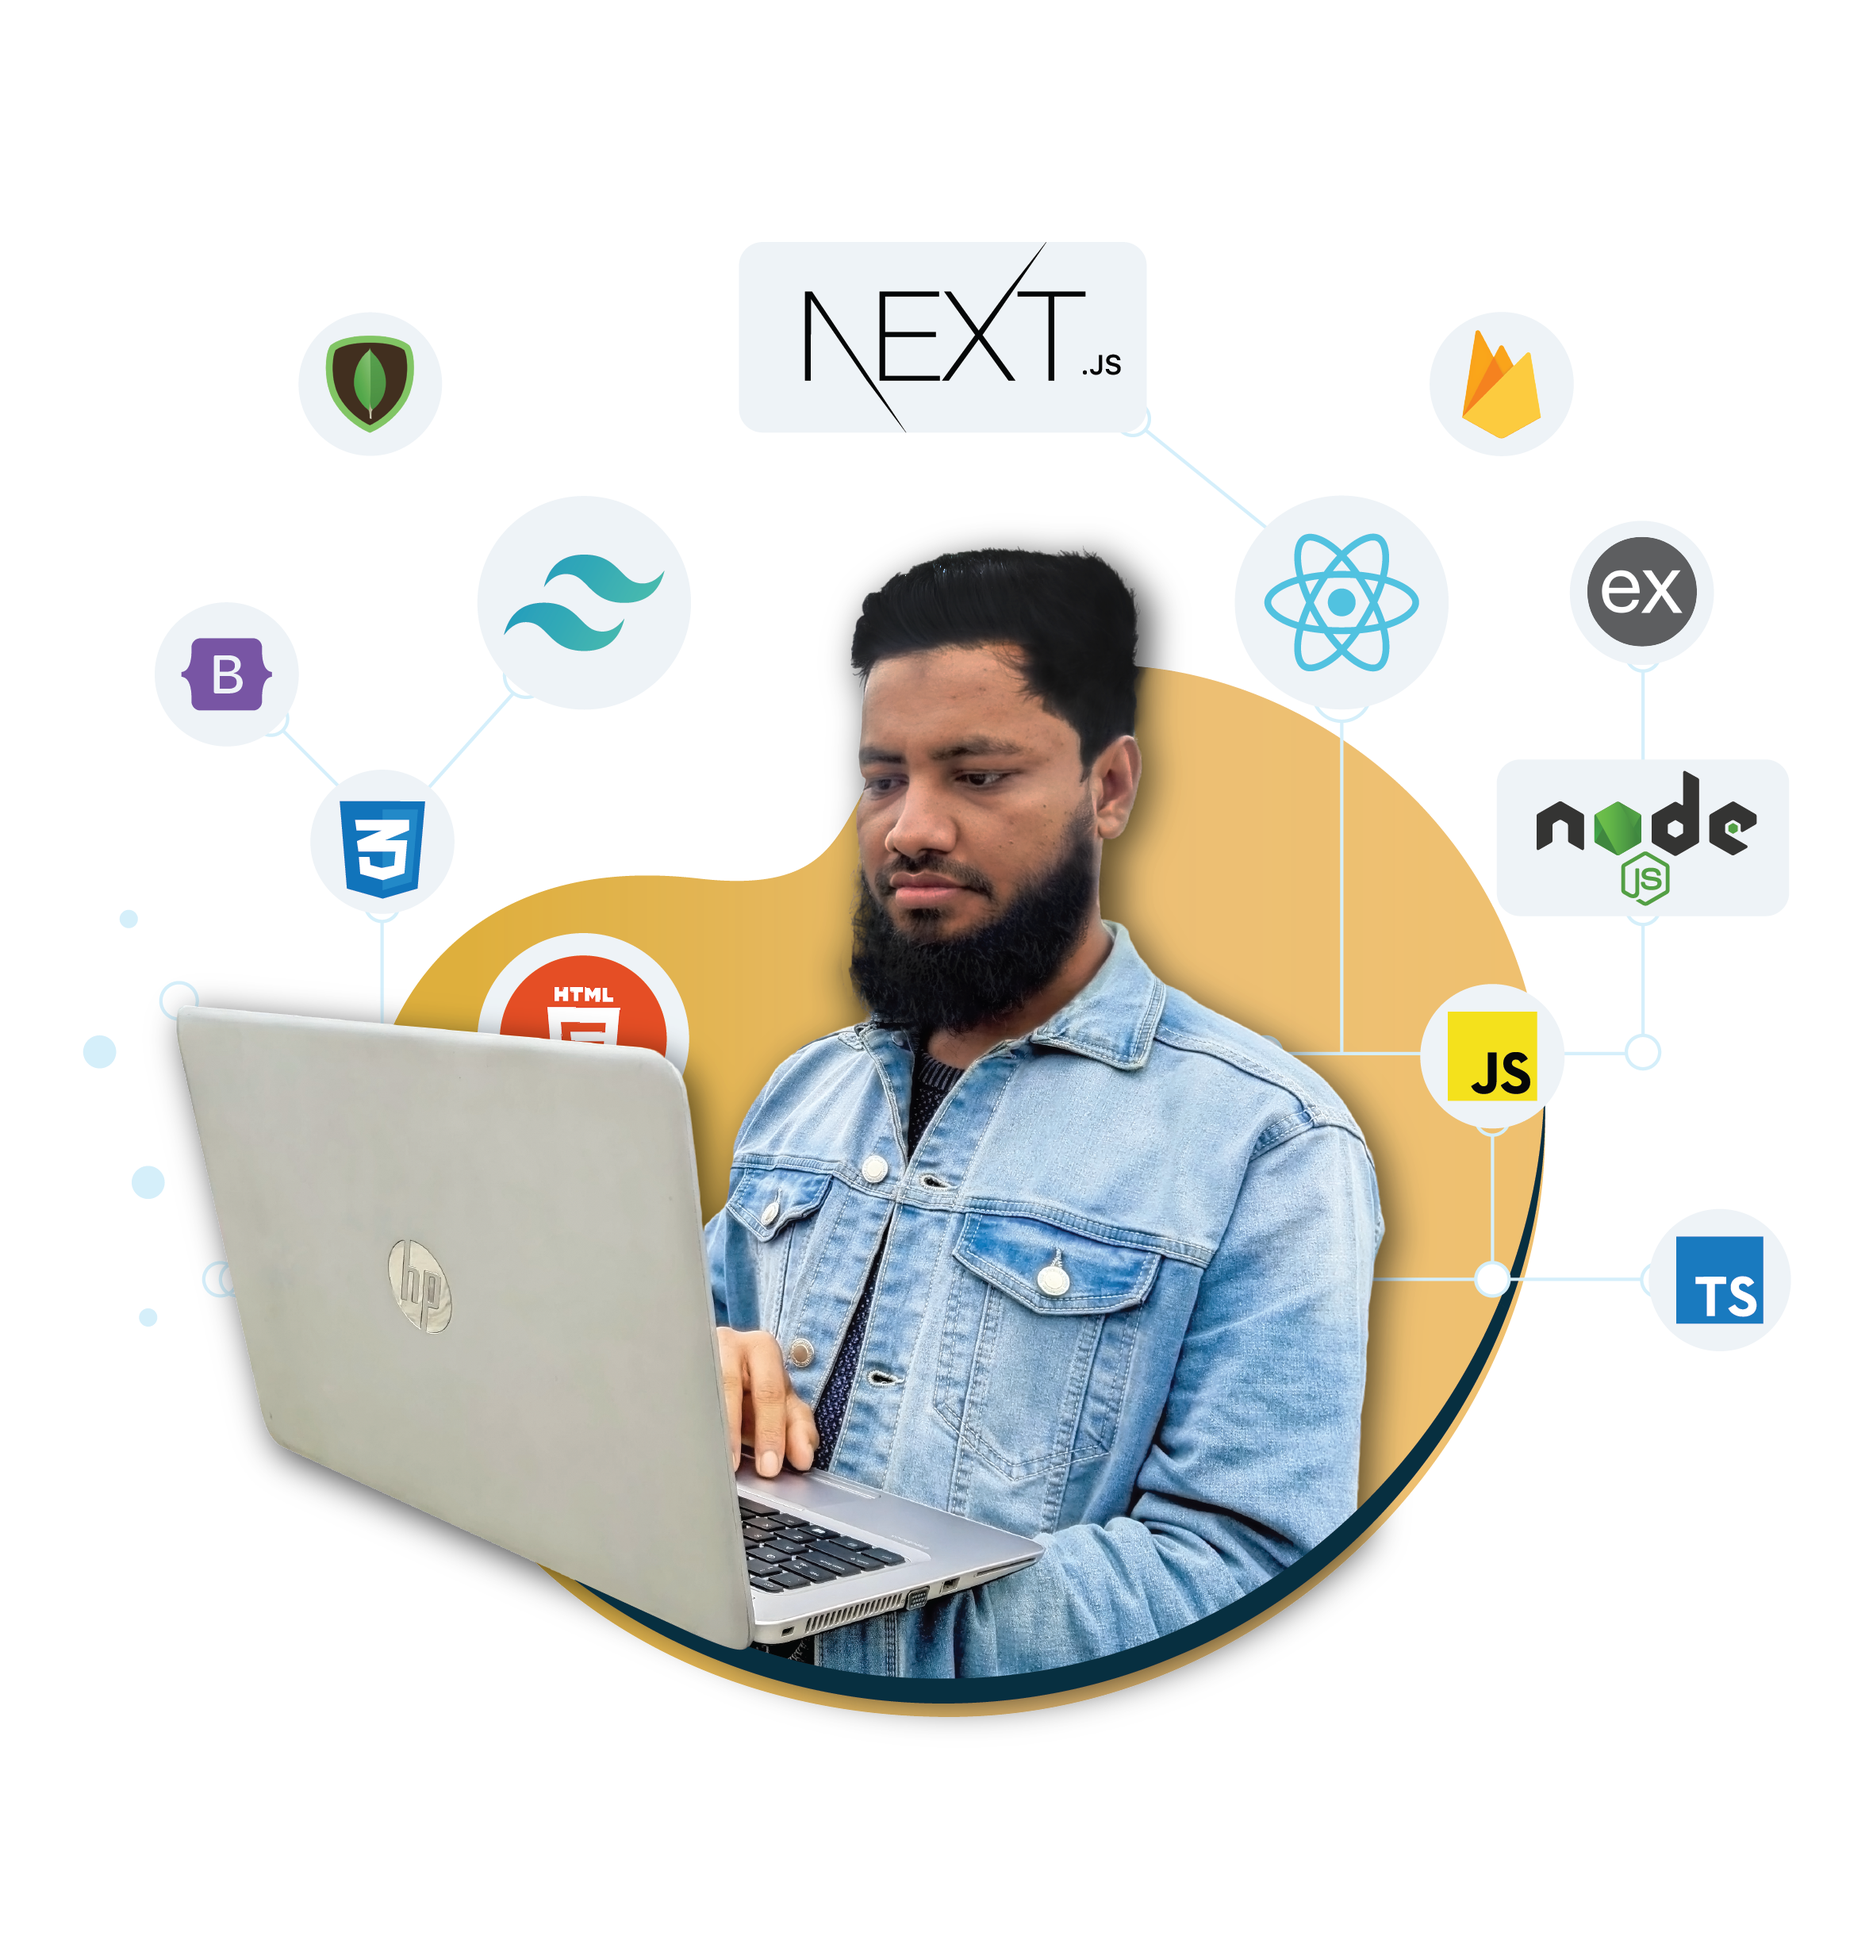
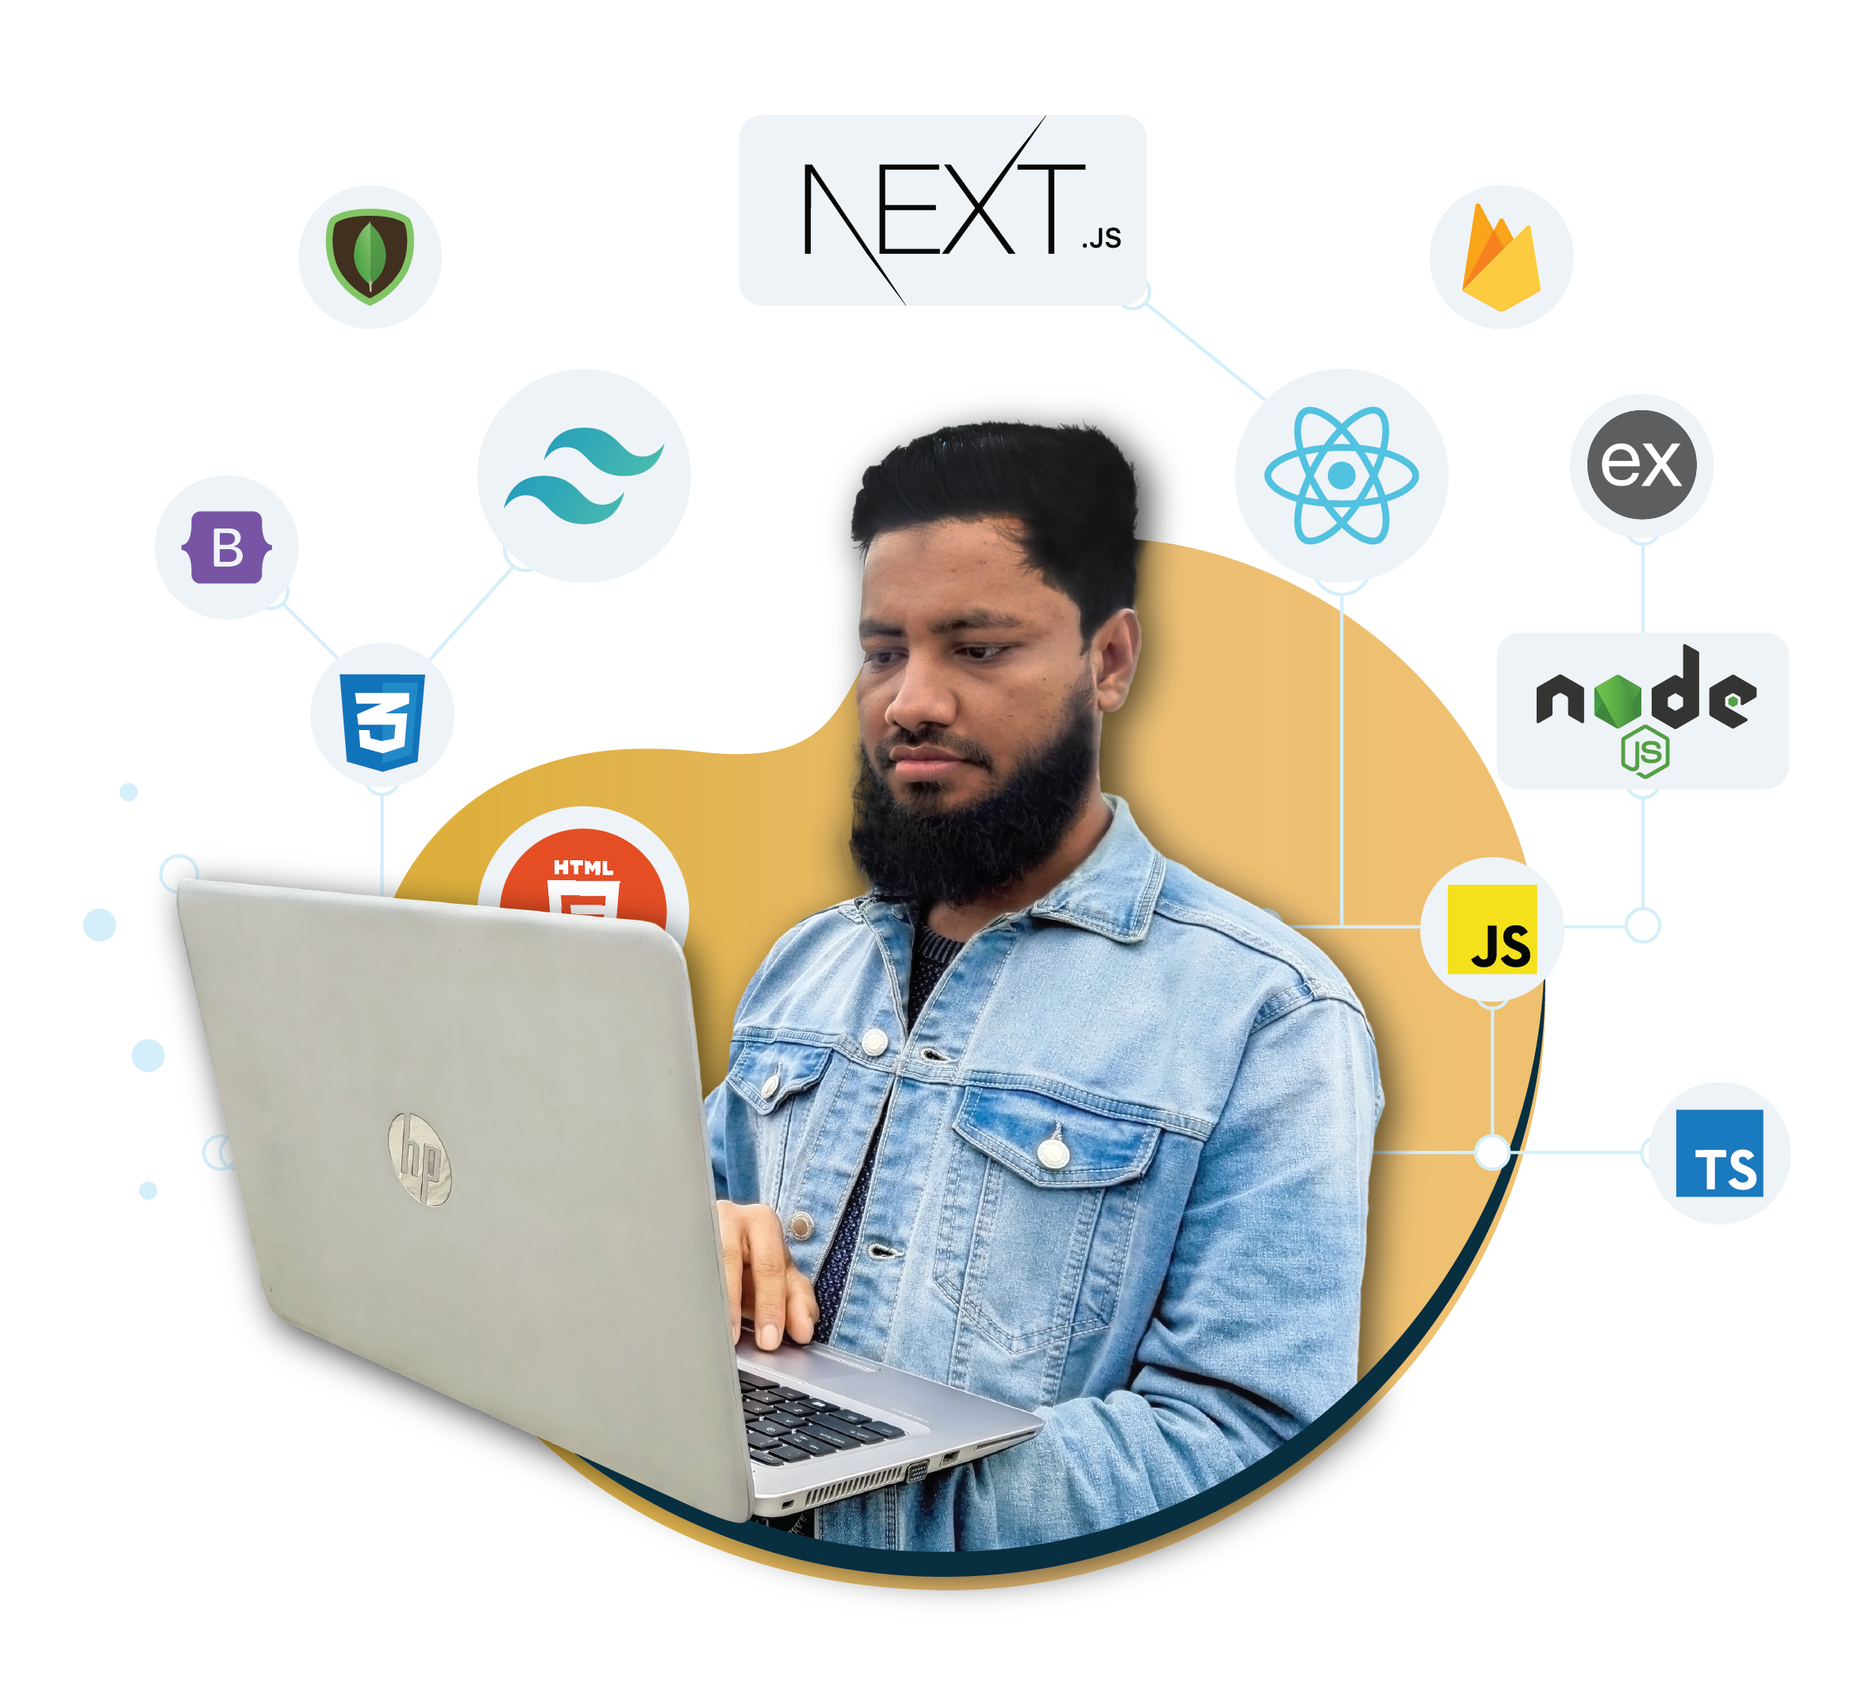
hero image scr changed

diff --git a/src/Pages/Home.jsx b/src/Pages/Home.jsx
@@ -31,7 +31,7 @@ export default function Home() {
     <div className="">
       <div className="lg:flex flex-row-reverse items-center ">
         <div className="heroRight  ">
-          <img className="w-full" src="/Programming1.png" alt="" />
+          <img className="w-full" src="/Programming.png" alt="" />
         </div>
         <div className="heroLeft  flex flex-col gap-2">
           <h2 className="text-2xl font-semibold mb-4">Hey there, </h2>
